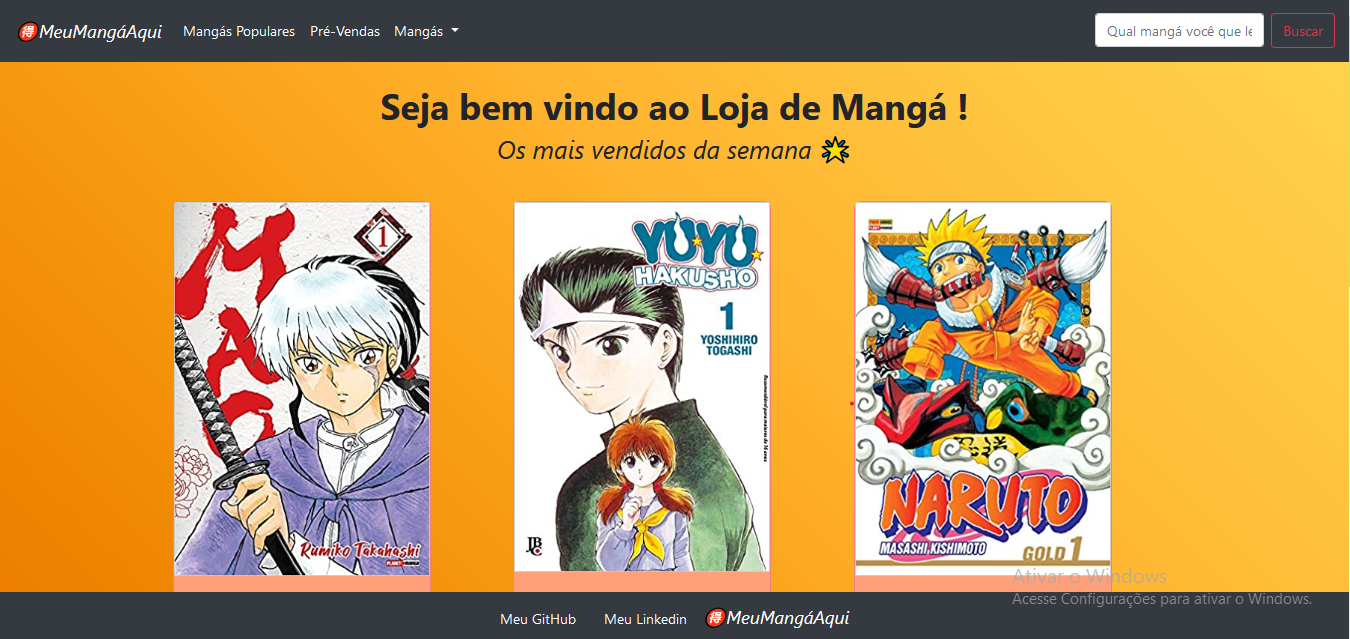
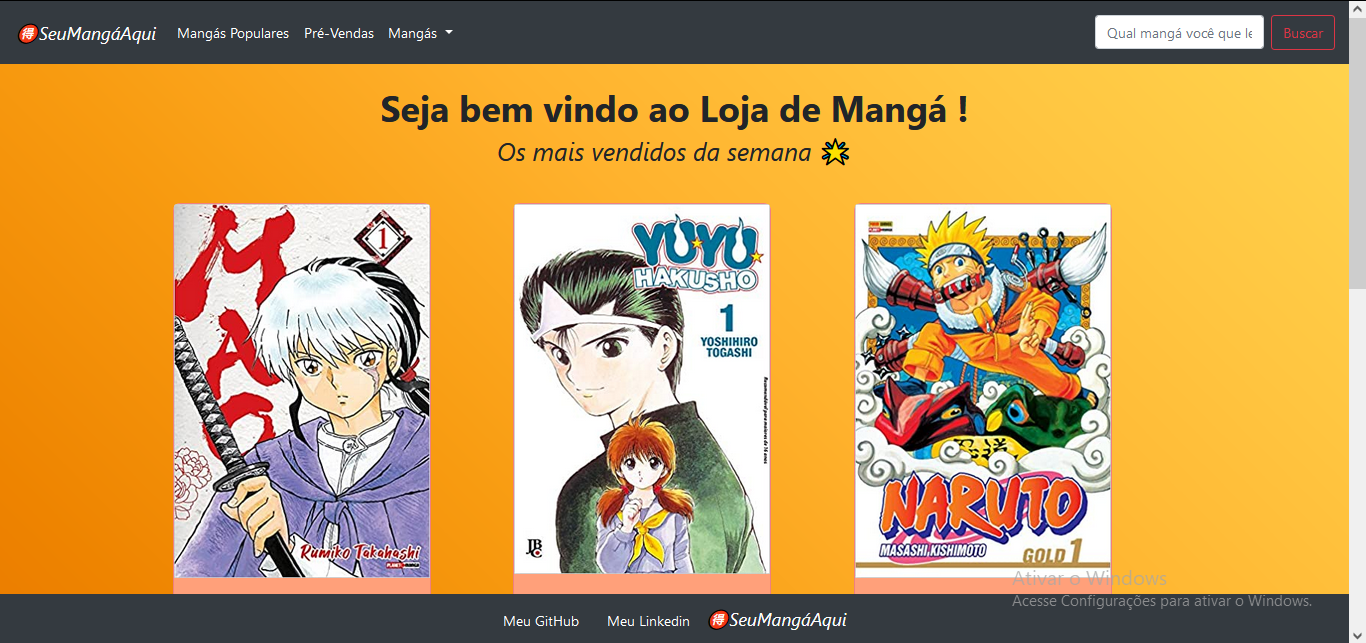
Atualizações

Changed region(s): [[0.0, 0.0, 1.0, 1.0], [0.28, 0.1487, 0.7156, 0.2676]]

diff --git a/src/app/template/header/header.component.html b/src/app/template/header/header.component.html
@@ -1,7 +1,7 @@
 <!-- Cabeçalho -->
 
 <nav class="navbar navbar-expand-lg navbar-dark bg-dark">
-  <a class="navbar-brand" href="#"><i>🉐MeuMangáAqui</i></a>
+  <a class="navbar-brand" href="#"><i>🉐SeuMangáAqui</i></a>
   <button class="navbar-toggler" type="button" data-toggle="collapse" data-target="#navbarSupportedContent" aria-controls="navbarSupportedContent" aria-expanded="false" aria-label="Toggle navigation">
     <span class="navbar-toggler-icon"></span>
   </button>

diff --git a/src/app/template/footer/footer.component.html b/src/app/template/footer/footer.component.html
@@ -6,7 +6,7 @@
       <span>
         <a class="p-3" href="https://github.com/CarlusKauan">Meu GitHub</a>
         <a class="p-3" href="https://www.linkedin.com/in/carlos-kauan-5a3832206/">Meu Linkedin</a>
-        <a class="navbar-brand"href="/"><i>🉐MeuMangáAqui</i></a>
+        <a class="navbar-brand"href="/"><i>🉐SeuMangáAqui</i></a>
       </span>
       </div>
     </span>

diff --git a/src/styles.css b/src/styles.css
@@ -26,3 +26,4 @@ h3{
   border-radius: 8px;
   border-color: lightcoral;
 }
+
